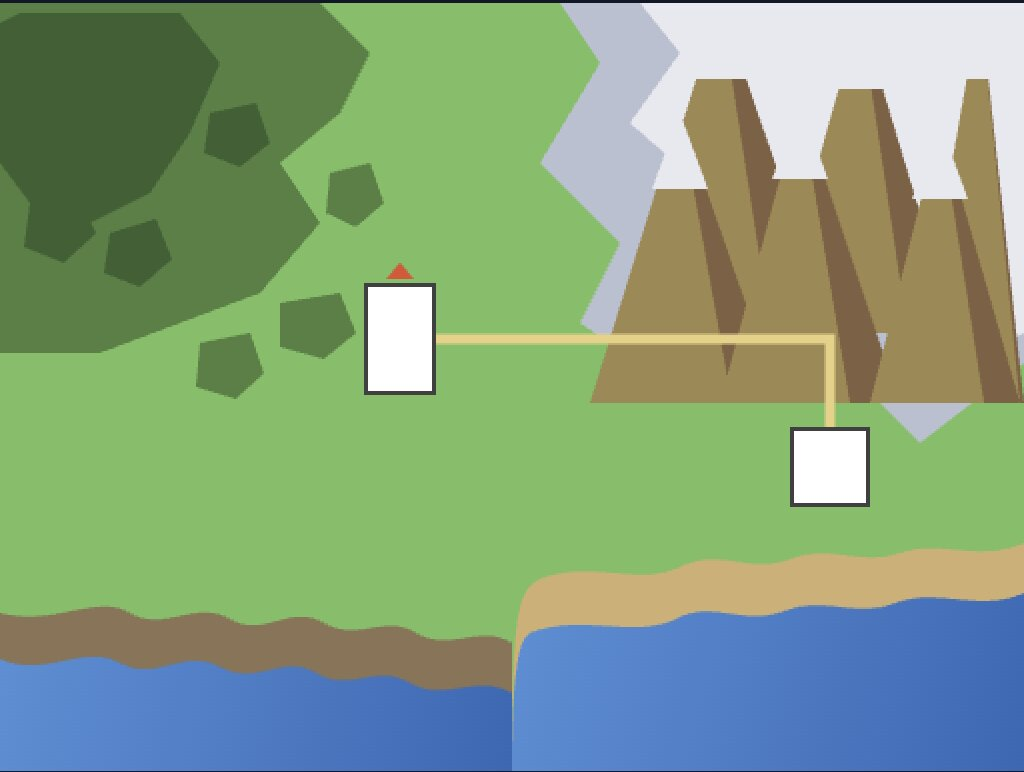
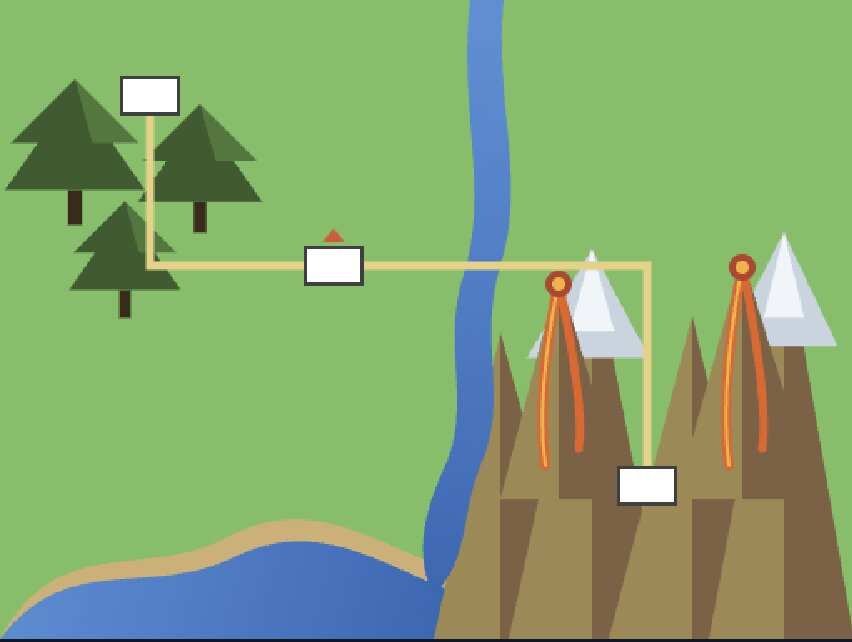
feat: FierySpirit town with sub modules

diff --git a/lib/towns.ts b/lib/towns.ts
@@ -34,12 +34,43 @@ import {
   ND_CAREERS_COURSE_X,
   ND_CAREERS_COURSE_Y,
   ND_CAREERS_COURSE_IMAGE_PATH,
+  FIERY_SPIRIT_IMAGE_PATH,
+  FIERY_SPIRIT_MAP_IMAGE_PATH,
+  FIERY_SPIRIT_MOTIVATIONS_X,
+  FIERY_SPIRIT_MOTIVATIONS_Y,
+  FIERY_SPIRIT_MOTIVATIONS_IMAGE_PATH,
+  FIERY_SPIRIT_DEFORMATION_X,
+  FIERY_SPIRIT_DEFORMATION_Y,
+  FIERY_SPIRIT_DEFORMATION_IMAGE_PATH,
+  FIERY_SPIRIT_SEISMIC_X,
+  FIERY_SPIRIT_SEISMIC_Y,
+  FIERY_SPIRIT_SEISMIC_IMAGE_PATH,
+  FIERY_SPIRIT_INTERFEROGRAMS_X,
+  FIERY_SPIRIT_INTERFEROGRAMS_Y,
+  FIERY_SPIRIT_INTERFEROGRAMS_IMAGE_PATH,
+  FIERY_SPIRIT_WAVEFORMS_X,
+  FIERY_SPIRIT_WAVEFORMS_Y,
+  FIERY_SPIRIT_WAVEFORMS_IMAGE_PATH,
+  FIERY_SPIRIT_SCREENER_X,
+  FIERY_SPIRIT_SCREENER_Y,
+  FIERY_SPIRIT_SCREENER_IMAGE_PATH,
+  FIERY_SPIRIT_TEACHER_X,
+  FIERY_SPIRIT_TEACHER_Y,
+  FIERY_SPIRIT_TEACHER_IMAGE_PATH,
+  FIERY_SPIRIT_STUDENT_X,
+  FIERY_SPIRIT_STUDENT_Y,
+  FIERY_SPIRIT_STUDENT_IMAGE_PATH,
+  FIERY_SPIRIT_DASHBOARD_X,
+  FIERY_SPIRIT_DASHBOARD_Y,
+  FIERY_SPIRIT_DASHBOARD_IMAGE_PATH,
 } from "@/lib/constants";
 import {
   chicagoDescription,
   chicagoBullets,
   notreDameDescription,
   notreDameBullets,
+  fierySpiritDescription,
+  fierySpiritBullets,
 } from "@/lib/text";
 
 const chicagoLocations: TownContentConfig["locations"] = [
@@ -118,6 +149,72 @@ const notreDameLocations: TownContentConfig["locations"] = [
   },
 ];
 
+const fierySpiritLocations: TownContentConfig["locations"] = [
+  {
+    id: HOVER_LOCATION.FIERY_SPIRIT_MOTIVATIONS,
+    x: FIERY_SPIRIT_MOTIVATIONS_X,
+    y: FIERY_SPIRIT_MOTIVATIONS_Y,
+    imagePath: FIERY_SPIRIT_MOTIVATIONS_IMAGE_PATH,
+    alt: "Motivations",
+  },
+  {
+    id: HOVER_LOCATION.FIERY_SPIRIT_DEFORMATION,
+    x: FIERY_SPIRIT_DEFORMATION_X,
+    y: FIERY_SPIRIT_DEFORMATION_Y,
+    imagePath: FIERY_SPIRIT_DEFORMATION_IMAGE_PATH,
+    alt: "Deformation",
+  },
+  {
+    id: HOVER_LOCATION.FIERY_SPIRIT_SEISMIC,
+    x: FIERY_SPIRIT_SEISMIC_X,
+    y: FIERY_SPIRIT_SEISMIC_Y,
+    imagePath: FIERY_SPIRIT_SEISMIC_IMAGE_PATH,
+    alt: "Seismic",
+  },
+  {
+    id: HOVER_LOCATION.FIERY_SPIRIT_INTERFEROGRAMS,
+    x: FIERY_SPIRIT_INTERFEROGRAMS_X,
+    y: FIERY_SPIRIT_INTERFEROGRAMS_Y,
+    imagePath: FIERY_SPIRIT_INTERFEROGRAMS_IMAGE_PATH,
+    alt: "Interferograms",
+  },
+  {
+    id: HOVER_LOCATION.FIERY_SPIRIT_WAVEFORMS,
+    x: FIERY_SPIRIT_WAVEFORMS_X,
+    y: FIERY_SPIRIT_WAVEFORMS_Y,
+    imagePath: FIERY_SPIRIT_WAVEFORMS_IMAGE_PATH,
+    alt: "Waveforms",
+  },
+  {
+    id: HOVER_LOCATION.FIERY_SPIRIT_SCREENER,
+    x: FIERY_SPIRIT_SCREENER_X,
+    y: FIERY_SPIRIT_SCREENER_Y,
+    imagePath: FIERY_SPIRIT_SCREENER_IMAGE_PATH,
+    alt: "Screener",
+  },
+  {
+    id: HOVER_LOCATION.FIERY_SPIRIT_TEACHER,
+    x: FIERY_SPIRIT_TEACHER_X,
+    y: FIERY_SPIRIT_TEACHER_Y,
+    imagePath: FIERY_SPIRIT_TEACHER_IMAGE_PATH,
+    alt: "Teacher",
+  },
+  {
+    id: HOVER_LOCATION.FIERY_SPIRIT_STUDENT,
+    x: FIERY_SPIRIT_STUDENT_X,
+    y: FIERY_SPIRIT_STUDENT_Y,
+    imagePath: FIERY_SPIRIT_STUDENT_IMAGE_PATH,
+    alt: "Student",
+  },
+  {
+    id: HOVER_LOCATION.FIERY_SPIRIT_DASHBOARD,
+    x: FIERY_SPIRIT_DASHBOARD_X,
+    y: FIERY_SPIRIT_DASHBOARD_Y,
+    imagePath: FIERY_SPIRIT_DASHBOARD_IMAGE_PATH,
+    alt: "Dashboard",
+  },
+];
+
 export const townContentConfigs: Record<TOWN_ID, TownContentConfig> = {
   [TOWN_ID.CHICAGO]: {
     title: "Chicago",
@@ -134,5 +231,13 @@ export const townContentConfigs: Record<TOWN_ID, TownContentConfig> = {
     description: notreDameDescription,
     bullets: notreDameBullets,
     locations: notreDameLocations,
+  },
+  [TOWN_ID.FIERY_SPIRIT]: {
+    title: "FierySpirit",
+    imagePath: FIERY_SPIRIT_IMAGE_PATH,
+    mapImagePath: FIERY_SPIRIT_MAP_IMAGE_PATH,
+    description: fierySpiritDescription,
+    bullets: fierySpiritBullets,
+    locations: fierySpiritLocations,
   },
 };

diff --git a/lib/constants.ts b/lib/constants.ts
@@ -129,8 +129,8 @@ export const LOCAL_ICON_SIZE = 24;
 export const LOCAL_MAP_WIDTH = 384;
 export const LOCAL_MAP_HEIGHT = 256;
 
-export const CHICAGO_WIDTH = 24;
-export const CHICAGO_HEIGHT = 48;
+export const CHICAGO_WIDTH = 18;
+export const CHICAGO_HEIGHT = 36;
 export const CHICAGO_X = 64;
 export const CHICAGO_Y = 32;
 export const CHICAGO_IMAGE_PATH = "/images/towns/chicago.jpeg";
@@ -162,10 +162,10 @@ export const FOCUS_HEALTHCARE_PARTNERS_X = 136;
 export const FOCUS_HEALTHCARE_PARTNERS_Y = 112;
 export const FOCUS_HEALTHCARE_PARTNERS_IMAGE_PATH = "/images/towns/focus.jpg";
 
-export const NOTRE_DAME_WIDTH = 24;
-export const NOTRE_DAME_HEIGHT = 24;
-export const NOTRE_DAME_X = 144;
-export const NOTRE_DAME_Y = 64;
+export const NOTRE_DAME_WIDTH = 18;
+export const NOTRE_DAME_HEIGHT = 18;
+export const NOTRE_DAME_X = 26;
+export const NOTRE_DAME_Y = 6;
 export const NOTRE_DAME_IMAGE_PATH = "/images/towns/notredame.jpg";
 export const NOTRE_DAME_MAP_IMAGE_PATH = "/images/map/notredame.jpg";
 
@@ -188,3 +188,49 @@ export const GROTTO_IMAGE_PATH = "/images/towns/grotto.jpg";
 export const ND_CAREERS_COURSE_X = 112;
 export const ND_CAREERS_COURSE_Y = 48;
 export const ND_CAREERS_COURSE_IMAGE_PATH = "/images/towns/careers.jpg";
+
+export const FIERY_SPIRIT_WIDTH = 18;
+export const FIERY_SPIRIT_HEIGHT = 18;
+export const FIERY_SPIRIT_X = 136;
+export const FIERY_SPIRIT_Y = 92;
+export const FIERY_SPIRIT_IMAGE_PATH = "/images/towns/fieryspirit.jpeg";
+export const FIERY_SPIRIT_MAP_IMAGE_PATH = "/images/map/fieryspirit.jpg";
+
+export const FIERY_SPIRIT_MOTIVATIONS_X = 88;
+export const FIERY_SPIRIT_MOTIVATIONS_Y = 6;
+export const FIERY_SPIRIT_MOTIVATIONS_IMAGE_PATH =
+  "/images/towns/motivations.jpg";
+
+export const FIERY_SPIRIT_DEFORMATION_X = 124;
+export const FIERY_SPIRIT_DEFORMATION_Y = 30;
+export const FIERY_SPIRIT_DEFORMATION_IMAGE_PATH =
+  "/images/towns/deformation.jpg";
+
+export const FIERY_SPIRIT_SEISMIC_X = 160;
+export const FIERY_SPIRIT_SEISMIC_Y = 54;
+export const FIERY_SPIRIT_SEISMIC_IMAGE_PATH = "/images/towns/seismic.jpg";
+
+export const FIERY_SPIRIT_INTERFEROGRAMS_X = 124;
+export const FIERY_SPIRIT_INTERFEROGRAMS_Y = 78;
+export const FIERY_SPIRIT_INTERFEROGRAMS_IMAGE_PATH =
+  "/images/towns/interferograms.jpg";
+
+export const FIERY_SPIRIT_WAVEFORMS_X = 108;
+export const FIERY_SPIRIT_WAVEFORMS_Y = 106;
+export const FIERY_SPIRIT_WAVEFORMS_IMAGE_PATH = "/images/towns/waveforms.jpg";
+
+export const FIERY_SPIRIT_SCREENER_X = 68;
+export const FIERY_SPIRIT_SCREENER_Y = 106;
+export const FIERY_SPIRIT_SCREENER_IMAGE_PATH = "/images/towns/screener.jpg";
+
+export const FIERY_SPIRIT_TEACHER_X = 44;
+export const FIERY_SPIRIT_TEACHER_Y = 78;
+export const FIERY_SPIRIT_TEACHER_IMAGE_PATH = "/images/towns/teacher.jpeg";
+
+export const FIERY_SPIRIT_STUDENT_X = 8;
+export const FIERY_SPIRIT_STUDENT_Y = 54;
+export const FIERY_SPIRIT_STUDENT_IMAGE_PATH = "/images/towns/student.jpeg";
+
+export const FIERY_SPIRIT_DASHBOARD_X = 44;
+export const FIERY_SPIRIT_DASHBOARD_Y = 30;
+export const FIERY_SPIRIT_DASHBOARD_IMAGE_PATH = "/images/towns/dashboard.jpg";

diff --git a/lib/types.ts b/lib/types.ts
@@ -7,6 +7,10 @@ import {
   NOTRE_DAME_Y,
   NOTRE_DAME_WIDTH,
   NOTRE_DAME_HEIGHT,
+  FIERY_SPIRIT_X,
+  FIERY_SPIRIT_Y,
+  FIERY_SPIRIT_WIDTH,
+  FIERY_SPIRIT_HEIGHT,
 } from "@lib/constants";
 import {
   seansHouseDescription,
@@ -19,6 +23,15 @@ import {
   goldenDomeDescription,
   grottoDescription,
   ndCareersCourseDescription,
+  fierySpiritMotivationsDescription,
+  fierySpiritDeformationDescription,
+  fierySpiritSeismicDescription,
+  fierySpiritInterferogramsDescription,
+  fierySpiritWaveformsDescription,
+  fierySpiritScreenerDescription,
+  fierySpiritTeacherDescription,
+  fierySpiritStudentDescription,
+  fierySpiritDashboardDescription,
 } from "@/lib/text";
 
 export type AvatarPosition = {
@@ -29,6 +42,7 @@ export type AvatarPosition = {
 export enum TOWN_ID {
   CHICAGO = "chicago",
   NOTRE_DAME = "notre dame",
+  FIERY_SPIRIT = "fiery spirit",
 }
 
 export type TownConfigEntry = {
@@ -51,6 +65,12 @@ export const TownConfig: Record<TOWN_ID, TownConfigEntry> = {
     width: NOTRE_DAME_WIDTH,
     height: NOTRE_DAME_HEIGHT,
   },
+  [TOWN_ID.FIERY_SPIRIT]: {
+    x: FIERY_SPIRIT_X,
+    y: FIERY_SPIRIT_Y,
+    width: FIERY_SPIRIT_WIDTH,
+    height: FIERY_SPIRIT_HEIGHT,
+  },
 };
 
 export enum HOVER_LOCATION {
@@ -64,6 +84,15 @@ export enum HOVER_LOCATION {
   GOLDEN_DOME = "golden dome",
   GROTTO = "grotto",
   ND_CAREERS_COURSE = "nd careers course",
+  FIERY_SPIRIT_MOTIVATIONS = "motivations",
+  FIERY_SPIRIT_DEFORMATION = "deformation",
+  FIERY_SPIRIT_SEISMIC = "seismic",
+  FIERY_SPIRIT_INTERFEROGRAMS = "interferograms",
+  FIERY_SPIRIT_WAVEFORMS = "waveforms",
+  FIERY_SPIRIT_SCREENER = "screener",
+  FIERY_SPIRIT_TEACHER = "teacher",
+  FIERY_SPIRIT_STUDENT = "student",
+  FIERY_SPIRIT_DASHBOARD = "dashboard",
 }
 
 export type TownLocationConfig = {
@@ -96,6 +125,16 @@ export const HoverConfig: Record<HOVER_LOCATION, string> = {
   [HOVER_LOCATION.GOLDEN_DOME]: goldenDomeDescription,
   [HOVER_LOCATION.GROTTO]: grottoDescription,
   [HOVER_LOCATION.ND_CAREERS_COURSE]: ndCareersCourseDescription,
+  [HOVER_LOCATION.FIERY_SPIRIT_MOTIVATIONS]: fierySpiritMotivationsDescription,
+  [HOVER_LOCATION.FIERY_SPIRIT_DEFORMATION]: fierySpiritDeformationDescription,
+  [HOVER_LOCATION.FIERY_SPIRIT_SEISMIC]: fierySpiritSeismicDescription,
+  [HOVER_LOCATION.FIERY_SPIRIT_INTERFEROGRAMS]:
+    fierySpiritInterferogramsDescription,
+  [HOVER_LOCATION.FIERY_SPIRIT_WAVEFORMS]: fierySpiritWaveformsDescription,
+  [HOVER_LOCATION.FIERY_SPIRIT_SCREENER]: fierySpiritScreenerDescription,
+  [HOVER_LOCATION.FIERY_SPIRIT_TEACHER]: fierySpiritTeacherDescription,
+  [HOVER_LOCATION.FIERY_SPIRIT_STUDENT]: fierySpiritStudentDescription,
+  [HOVER_LOCATION.FIERY_SPIRIT_DASHBOARD]: fierySpiritDashboardDescription,
 };
 
 export type BottomBarPanel =

diff --git a/lib/text.ts b/lib/text.ts
@@ -41,3 +41,29 @@ export const grottoDescription =
   "Sean spent nearly every remotely sunny evening between the Grotto and the Lakes, taking in those good old Midwestern sunsets.";
 export const ndCareersCourseDescription =
   "Sean submitted a research proposal and ran the introductory course for Careers in Computer Science and Engineering, helping aspiring professionals.";
+
+export const fierySpiritDescription =
+  "Two-tier volcanic unrest system that pairs satellite imagery with TinyML seismic models on the edge.";
+export const fierySpiritBullets = FormatBulletPoints([
+  "https://fiery-spirit.earth",
+  "https://github.com/sfroning88/fiery-spirit",
+]);
+
+export const fierySpiritMotivationsDescription =
+  "Volcanic monitoring is expensive in remote or inhospitable regions; can TinyML improve monitoring capabilities and protect rural citizens?";
+export const fierySpiritDeformationDescription =
+  "The first signal of interest is ground deformation (changes in the shape of the volcano or surrounding landscape) due to subterranean magma flows.";
+export const fierySpiritSeismicDescription =
+  "The second signal of interest is seismic activity (measurable by on-ground seismic sensors) enabling experts to infer underlying magma movement across a given area of land.";
+export const fierySpiritInterferogramsDescription =
+  "Interferometric Synthetic Aperture Radar (InSAR) is a leading technique to detect deformation over broad areas of land by aggregating multiple radar images of the same location.";
+export const fierySpiritWaveformsDescription =
+  "Sensors product spectrograms capturing four distinct classes of seismic activity in volcano regions: volcanic tectonic (VT), long period (LP), tremor (TR), and tectonic (TC).";
+export const fierySpiritScreenerDescription =
+  "Fine-tune 'Screener' cloud ViT with qkv-only LoRA and AdamW on interferograms for detecting ground-deformation.";
+export const fierySpiritTeacherDescription =
+  "Pre-train 'Teacher' cloud CNN with for 4-class labelling of seismic waveforms for detecting volcanic tremors.";
+export const fierySpiritStudentDescription =
+  "Distill and compress 'Student' with iterative prune-then-finetune and PTQ/QAT quantization under flash/peak RAM/MAC budgets.";
+export const fierySpiritDashboardDescription =
+  "Detect volcanic unrest by cross-correlating inferences from satellite imagery with on-ground sensor readings.";

diff --git a/app/(components)/Map.tsx b/app/(components)/Map.tsx
@@ -5,6 +5,7 @@ import { toast } from "sonner";
 import { useOnboardingContext } from "@/app/providers";
 import { Chicago } from "./(towns)/Chicago";
 import { NotreDame } from "./(towns)/NotreDame";
+import { FierySpirit } from "./(towns)/FierySpirit";
 import { getTownCenter } from "@lib/utils";
 import { TOWN_ID, TownConfig } from "@lib/types";
 import { Avatar } from "./Avatar";
@@ -94,6 +95,21 @@ export function Map({
       >
         <NotreDame
           onVisitTown={() => onVisitTown(TOWN_ID.NOTRE_DAME)}
+          onModalStateChange={onModalStateChange}
+          dsInnerScreenSize={dsInnerScreenSize}
+          dsInnerScreenCenter={dsInnerScreenCenter}
+          mapCenter={mapCenter}
+        />
+      </div>
+      <div
+        className="absolute"
+        style={{
+          left: TownConfig[TOWN_ID.FIERY_SPIRIT].x * DS_TO_WEB_SCALE,
+          top: TownConfig[TOWN_ID.FIERY_SPIRIT].y * DS_TO_WEB_SCALE,
+        }}
+      >
+        <FierySpirit
+          onVisitTown={() => onVisitTown(TOWN_ID.FIERY_SPIRIT)}
           onModalStateChange={onModalStateChange}
           dsInnerScreenSize={dsInnerScreenSize}
           dsInnerScreenCenter={dsInnerScreenCenter}

diff --git a/app/(components)/(towns)/FierySpirit.tsx b/app/(components)/(towns)/FierySpirit.tsx
@@ -1,0 +1,37 @@
+"use client";
+
+import { Town } from "./Town";
+import { TOWN_ID } from "@/lib/types";
+import { TownConfig } from "@/lib/types";
+import { townContentConfigs } from "@/lib/towns";
+import { TEST_IDS } from "@/lib/test-ids";
+
+type FierySpiritProps = {
+  onVisitTown?: () => void;
+  onModalStateChange?: (isOpen: boolean) => void;
+  dsInnerScreenSize: { width: number; height: number };
+  dsInnerScreenCenter: { x: number; y: number };
+  mapCenter: { x: number; y: number };
+};
+
+export function FierySpirit({
+  onVisitTown,
+  onModalStateChange,
+  dsInnerScreenSize,
+  dsInnerScreenCenter,
+  mapCenter,
+}: FierySpiritProps) {
+  return (
+    <Town
+      contentConfig={townContentConfigs[TOWN_ID.FIERY_SPIRIT]}
+      mapConfig={TownConfig[TOWN_ID.FIERY_SPIRIT]}
+      townTestId={TEST_IDS.townFierySpirit}
+      townModalTestId={TEST_IDS.townModalFierySpirit}
+      onVisitTown={onVisitTown}
+      onModalStateChange={onModalStateChange}
+      dsInnerScreenSize={dsInnerScreenSize}
+      dsInnerScreenCenter={dsInnerScreenCenter}
+      mapCenter={mapCenter}
+    />
+  );
+}

diff --git a/lib/test-ids.ts b/lib/test-ids.ts
@@ -4,8 +4,10 @@ export const TEST_IDS = {
   bottomBar: "bottom-bar",
   townChicago: "town-chicago",
   townNotreDame: "town-notre-dame",
+  townFierySpirit: "town-fiery-spirit",
   townModalChicago: "town-modal-chicago",
   townModalNotreDame: "town-modal-notre-dame",
+  townModalFierySpirit: "town-modal-fiery-spirit",
   trainerCardModal: "trainer-card-modal",
   trainerCardClose: "trainer-card-close",
   spotifyModal: "spotify-modal",
